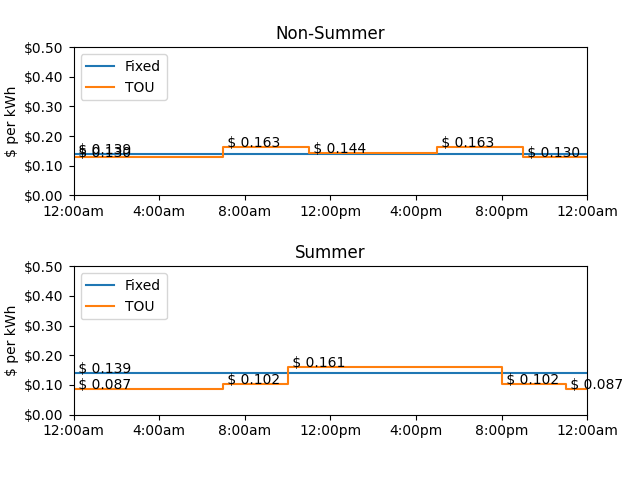
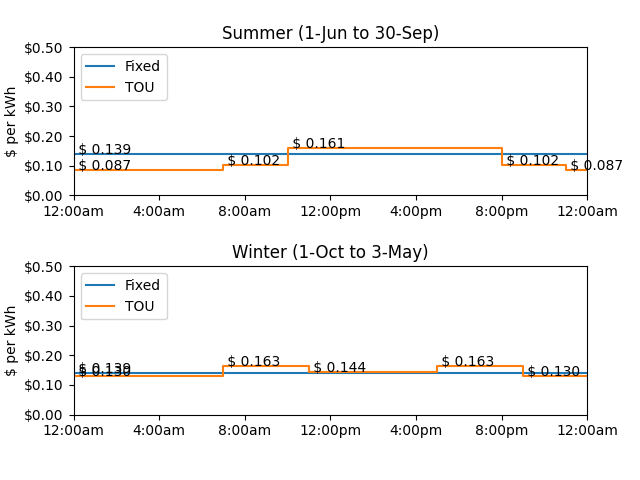
added dates to chart titles

diff --git a/Post1_Nevada.py b/Post1_Nevada.py
@@ -1,5 +1,3 @@
-
-
 import matplotlib.pyplot as plt
 from matplotlib.ticker import (MultipleLocator, FormatStrFormatter, AutoMinorLocator)
 
@@ -27,8 +25,10 @@ def display_state_charts(state: str, td: TimesData, rd: RatesData, sd: SeasonsDa
     seasons_dict = {}
     for i, state_season in enumerate(state_seasons):
         seasons_dict[state_season] = i
-        ax[i].set_title(state_season)
+        date_string = " (" + sd.season_begin(state, state_season) + " to " + sd.season_end(state, state_season) + ")"
+        ax[i].set_title(state_season + date_string)
 
+    # formatting the plots
     for subplot in ax:
         subplot.set_xlim([0, 24])
         subplot.set_ylim([0, 0.5])
@@ -37,16 +37,16 @@ def display_state_charts(state: str, td: TimesData, rd: RatesData, sd: SeasonsDa
         subplot.xaxis.set_ticks(np.arange(0, 24+1, 4))
         subplot.set_ylabel("$ per kWh")
     
+    # go through each plan (i.e., TOU) that the state has
     state_plans = rd.plans_for_state(state)
     for plan in state_plans:
-        if(plan == "EV"): continue  #right now we're just doing straight up TOU plans. 
+        if(plan != "Fixed" and plan != "TOU"): continue  #right now we're just doing Fixed and Standard TOU plans. 
         
         seasons = list(rd.seasons_for_plan(state, plan))
         for season in seasons:
             rs = RateSeries(state, season, plan, plan, td, rd) # double plan is weird
             x = rs.start_times()
-            y = rs.rates()
-            
+            y = rs.rates()           
             x.append(24) #make sure we have a data point at end of day to finish plot
             y.append(y[0]) # make sure midnight (end of day) matches midnight (start of day) value
 
